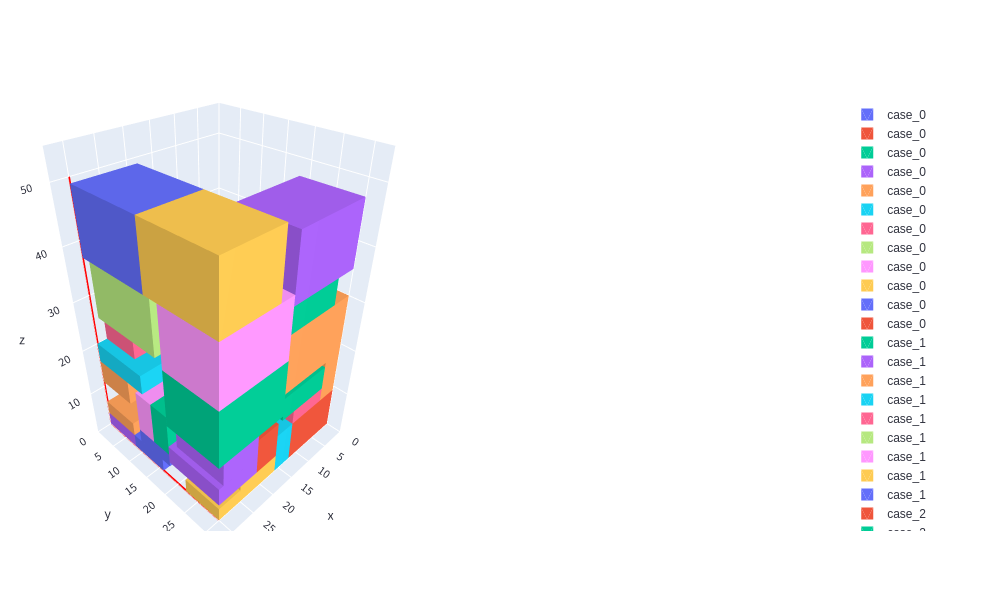
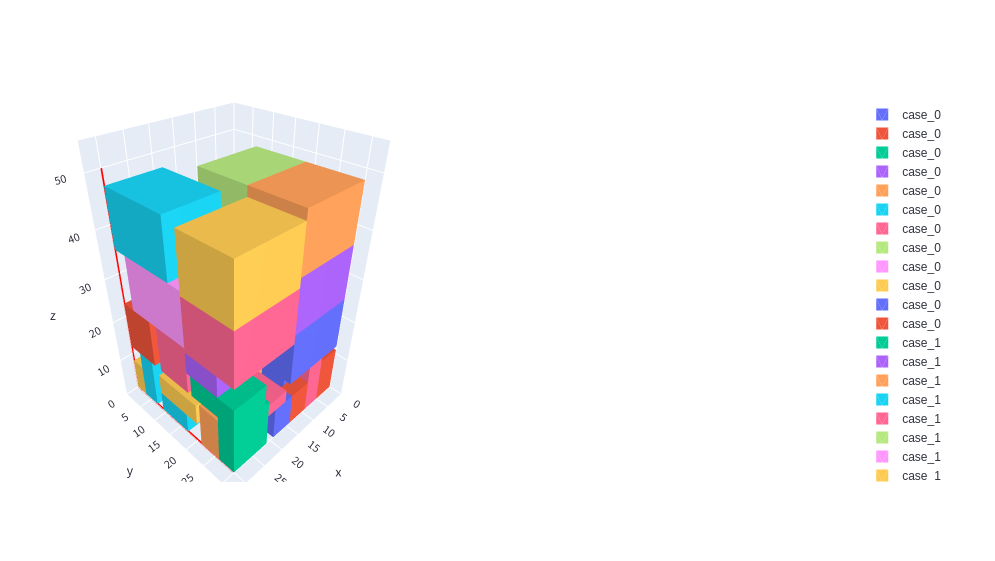
update sample plot and file with shorter run

Changed region(s): [[0.0306, 0.1515, 0.4281, 0.9091], [0.8563, 0.1818, 0.948, 0.8788]]

diff --git a/README.md b/README.md
@@ -63,16 +63,16 @@ The program produces a solution like this:
 ```
 # Number of bins used: 1
 # Number of cases packed: 47
-# Objective value: 115.638
+# Objective value: 117.085
 
   case_id    bin-location    orientation    x    y    z    x'    y'    z'
 ---------  --------------  -------------  ---  ---  ---  ----  ----  ----
-        0               1              2   25    8    0     5     8     3
-        0               1              2    5    0    0     5     8     3
-        0               1              5    0   13    0     8     5     3
-        0               1              2   25    0    0     5     8     3
-        0               1              2   25    0    3     5     8     3
-        0               1              2   12    8    0     5     8     3
+        0               1              1   14   27    0     5     3     8
+        0               1              1    9   27    0     5     3     8
+        0               1              2    0    0    8     5     8     3
+        0               1              1    0    3    0     5     3     8
+        0               1              2   20    9   10     5     8     3
+        0               1              1   10   13    0     5     3     8
         ...
 ```
 Note that only a portion of the solution is shown above. Also, there are multiple rows with same case_id as 
